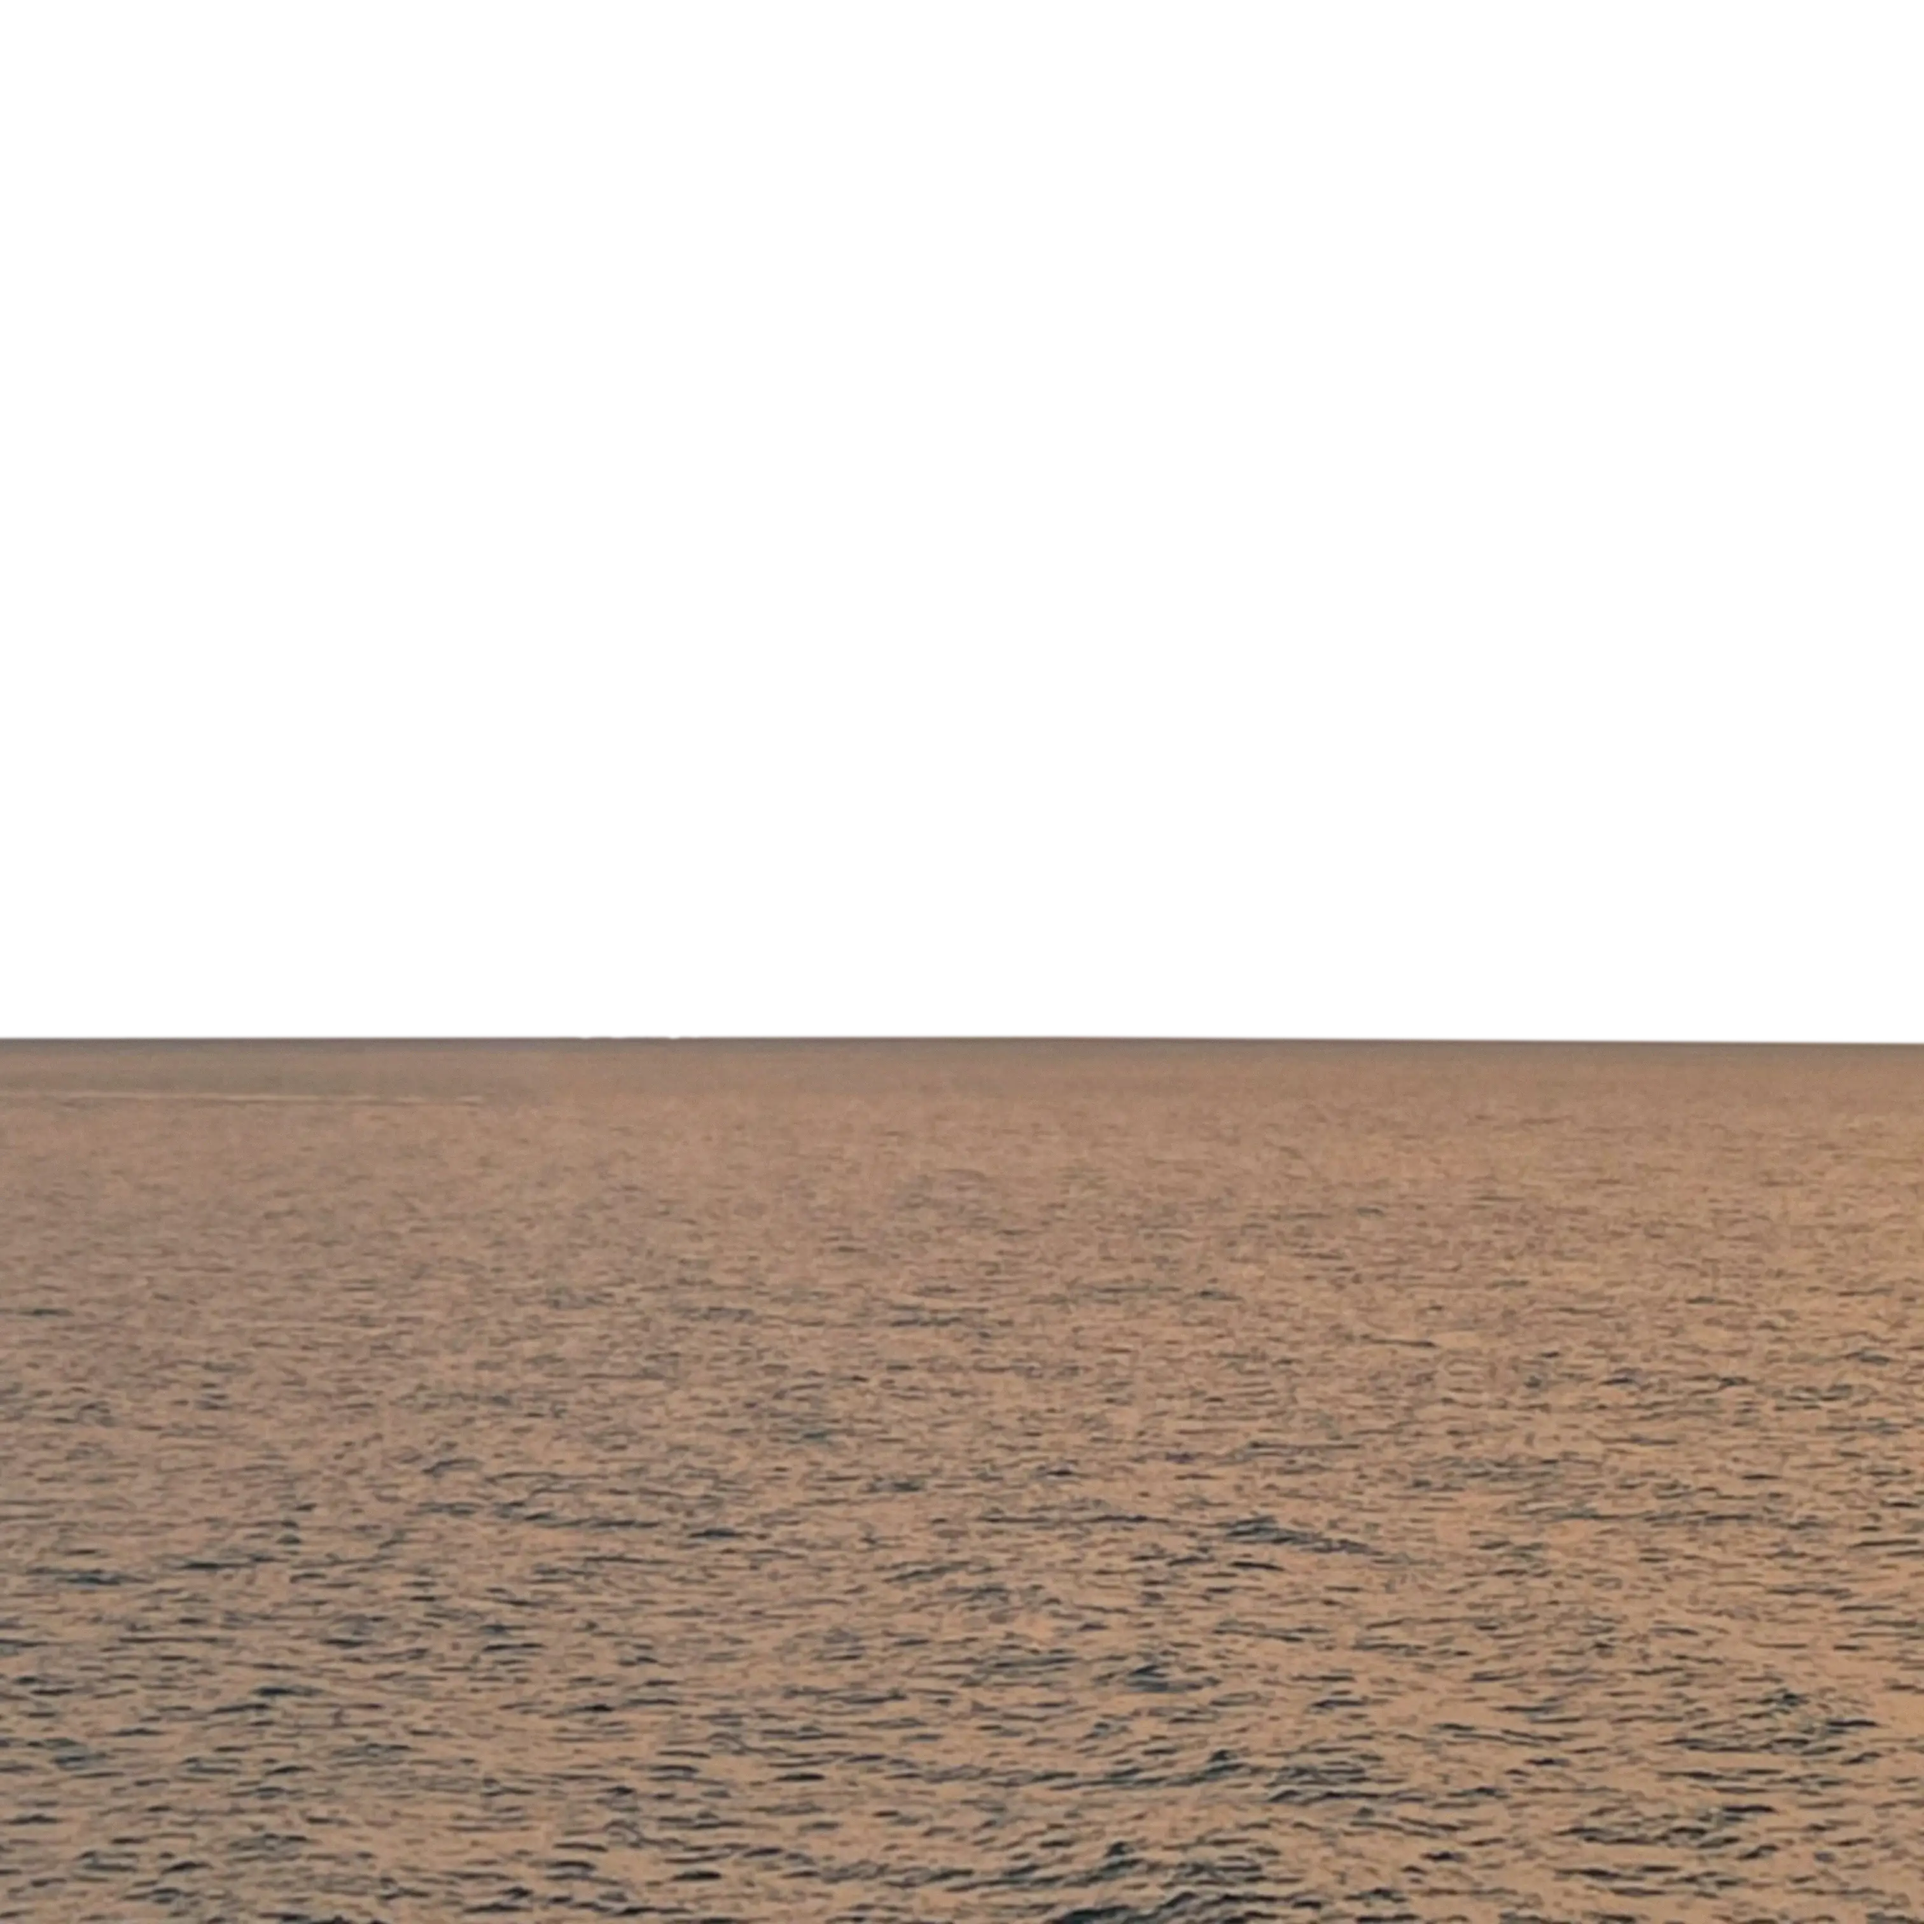
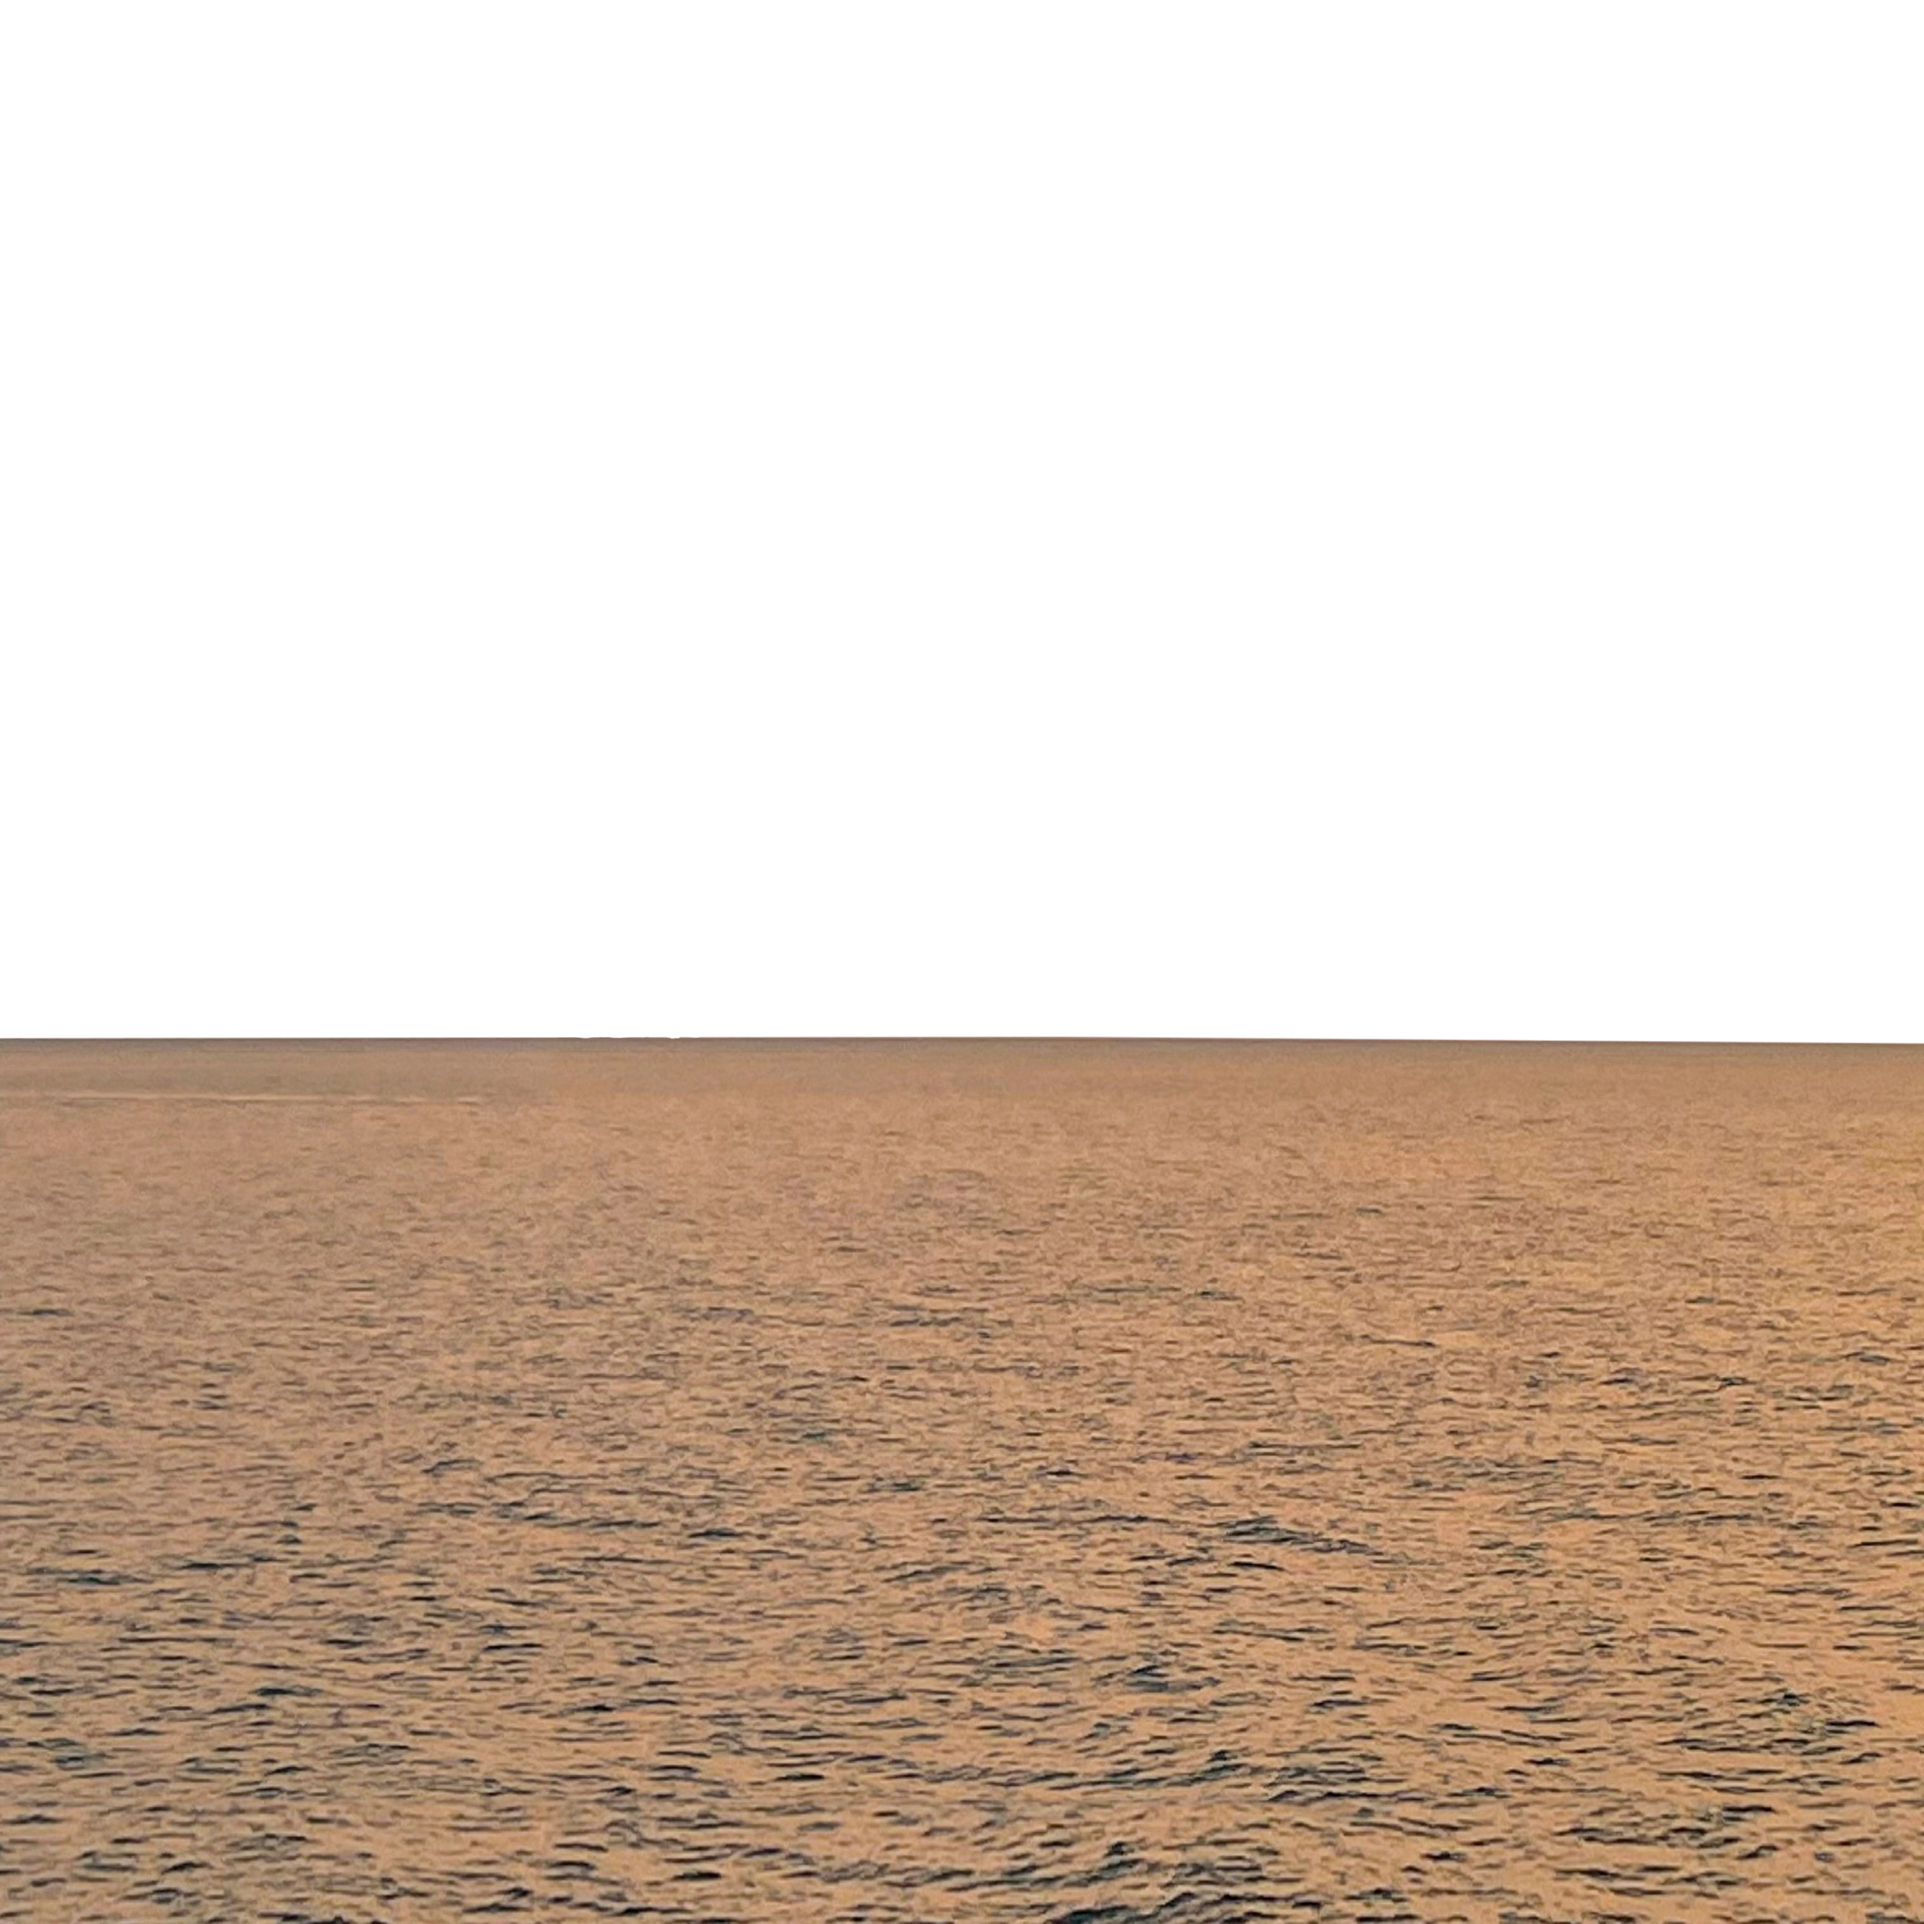
Updated background

Changed region(s): [[0.0, 0.5595, 1.0, 1.0]]

diff --git a/index.html b/index.html
@@ -294,6 +294,30 @@
                 </div> 
             </div>
 
+            <!-- Lockdown Learning -->
+            <div class="col-lg-6 col-md-12 mb-3 p-0 px-md-3 pb-md-3">
+                <div class="card">
+                    <h5 class="mb-2">
+                        <span class="badge bg-primary mb-2">Web Dev</span>
+                        <span class="badge bg-secondary mb-2">HTML</span>
+                        <span class="badge bg-secondary mb-2">CSS</span>
+                        <span class="badge bg-secondary mb-2">JavaScript</span>
+                        <span class="badge bg-grey mb-2">Node.js</span>
+                    </h5>
+                    <h3 class="mb-1">Lockdown Learning<span class="date mt-1">2020 - 2021</span></h3>
+                    <p class="mb-3">Co-founded a tutor advertising organisation, for which I implemented a website. It lists partner tutors and has a search engine for students. Website (last maintained in 2021): <a href="http://www.lock-learn.co.uk/" target="_blank" rel="noopener noreferrer">lock-learn.co.uk</a></p>
+                    <a href="http://www.lock-learn.co.uk/" target="_blank" rel="noopener noreferrer"><img src="./projects/lockdown-learning/website.png" class="img-fluid img-thumbnail " alt="Lockdown Learning website"></a>
+                    <div class="collapse mt-3" id="lockdownlearning">
+                        <p>During the first COVID-19 lockdown, I co-founded an organisation to advertise online GCSE/A-Level tutors. Our goal was to advertise tutors to students through our website and through leaflets sent to schools, so that tutors could find good work and students could continue their education through school closures.</p>
+                        <p>Within two days, I learned essential web technologies, including HTML, CSS, and JavaScript (Node.js), and developed the organisation website. This quick turnaround allowed us to launch quickly at the beginning of the lockdown period - when advertising tutors would be most effective.
+                        <p>We successfully found many students for tutors listed on our website.</p>
+                    </div>
+                    <a class="more text-center mt-3" data-bs-toggle="collapse" href="#lockdownlearning" role="button" aria-expanded="false" aria-controls="lockdownlearning">
+                        <i class="fa fa-angle-down"></i>
+                    </a>
+                </div> 
+            </div>
+
             <!-- TensorFlow 2 -->
             <div class="col-lg-6 col-md-12 mb-3 p-0 px-md-3 pb-md-3">
                 <div class="card">
@@ -317,29 +341,6 @@
                         <p>For the balanced (digits and letters merged) dataset, the model managed a test accuracy of 89.21%, and a test accuracy of 99.52% for the digits dataset.</p>
                     </div>
                     <a class="more text-center mt-3" data-bs-toggle="collapse" href="#ocr" role="button" aria-expanded="false" aria-controls="ocr">
-                        <i class="fa fa-angle-down"></i>
-                    </a>
-                </div> 
-            </div>
-
-            <!-- 8 Ball Pool -->
-            <div class="col-lg-6 col-md-12 mb-3 p-0 px-md-3 pb-md-3">
-                <div class="card">
-                    <h5 class="mb-2">
-                        <span class="badge bg-primary mb-2">Physics</span>
-                        <span class="badge bg-primary mb-2">OOP</span>
-                        <span class="badge bg-primary mb-2">AI</span>
-                        <span class="badge bg-secondary mb-2">VB.NET</span>
-                    </h5>
-                    <h3 class="mb-1">8 Ball Pool<span class="date mt-1">2020</span></h3>
-                    <p class="mb-3">PC game with offline multiplayer mode and single player mode, with a self-devised AI (with user selected difficulty)</p>
-                    <img src="./projects/8-ball-pool/game.png" class="img-fluid img-thumbnail" alt="8 Ball Pool">
-                    <div class="collapse mt-3" id="pool">
-                        <p>For my Computer Science A-Level NEA, I wanted to create something that combined concepts from all the subjects that I was studying. At the time, we had just learned the formulae for 2D collisions of spheres in Further Mathematics, and so 8 Ball Pool then seemed the perfect game to implement. The program combined formulas from Physics/Mathematics with OOP principles from Computer Science.</p>
-                        <p>The game was complete with user-friendly GUI, user login (for a leaderboard), ability to save a game state, multiplayer mode, and single player mode (with user selected difficulty). The most challenging part was implementing the single player mode AI. With pen and paper, I derived the formula to obtain which angle the AI should hit the cue ball to pocket another ball. I also developed some heuristics for the AI to decide which ball to pocket, which hole to pocket into, and what power to hit the cue ball.</p>
-                        <p>I received 100% for this coursework, which played a part in me being awarded the Computer Science Prize (given to the top CS student in the school).</p>
-                    </div>
-                    <a class="more text-center mt-3" data-bs-toggle="collapse" href="#pool" role="button" aria-expanded="false" aria-controls="pool">
                         <i class="fa fa-angle-down"></i>
                     </a>
                 </div> 
@@ -401,6 +402,29 @@
                         </div>    
                     </div>
                     <a class="more text-center mt-3" data-bs-toggle="collapse" href="#p5" role="button" aria-expanded="false" aria-controls="p5">
+                        <i class="fa fa-angle-down"></i>
+                    </a>
+                </div> 
+            </div>
+
+            <!-- 8 Ball Pool -->
+            <div class="col-lg-6 col-md-12 mb-3 p-0 px-md-3 pb-md-3">
+                <div class="card">
+                    <h5 class="mb-2">
+                        <span class="badge bg-primary mb-2">Physics</span>
+                        <span class="badge bg-primary mb-2">OOP</span>
+                        <span class="badge bg-primary mb-2">AI</span>
+                        <span class="badge bg-secondary mb-2">VB.NET</span>
+                    </h5>
+                    <h3 class="mb-1">8 Ball Pool<span class="date mt-1">2020</span></h3>
+                    <p class="mb-3">PC game with offline multiplayer mode and single player mode, with a self-devised AI (with user selected difficulty)</p>
+                    <img src="./projects/8-ball-pool/game.png" class="img-fluid img-thumbnail" alt="8 Ball Pool">
+                    <div class="collapse mt-3" id="pool">
+                        <p>For my Computer Science A-Level NEA, I wanted to create something that combined concepts from all the subjects that I was studying. At the time, we had just learned the formulae for 2D collisions of spheres in Further Mathematics, and so 8 Ball Pool then seemed the perfect game to implement. The program combined formulas from Physics/Mathematics with OOP principles from Computer Science.</p>
+                        <p>The game was complete with user-friendly GUI, user login (for a leaderboard), ability to save a game state, multiplayer mode, and single player mode (with user selected difficulty). The most challenging part was implementing the single player mode AI. With pen and paper, I derived the formula to obtain which angle the AI should hit the cue ball to pocket another ball. I also developed some heuristics for the AI to decide which ball to pocket, which hole to pocket into, and what power to hit the cue ball.</p>
+                        <p>I received 100% for this coursework, which played a part in me being awarded the Computer Science Prize (given to the top CS student in the school).</p>
+                    </div>
+                    <a class="more text-center mt-3" data-bs-toggle="collapse" href="#pool" role="button" aria-expanded="false" aria-controls="pool">
                         <i class="fa fa-angle-down"></i>
                     </a>
                 </div> 

diff --git a/assets/css/custom.css b/assets/css/custom.css
@@ -143,7 +143,7 @@ Front cover
 }
 
 #sunsetSun {
-  background-image: url("../img/sunset-sun.webp");
+  background-image: url("../img/sunset-sun.jpg");
 }
 
 #sunsetWater {
@@ -151,7 +151,7 @@ Front cover
 }
 
 #sunsetBoat {
-  background-image: url("../img/sunset-boat.webp");
+  background-image: url("../img/sunset-boat.png");
 }
 
 #grindelwaldSky {
